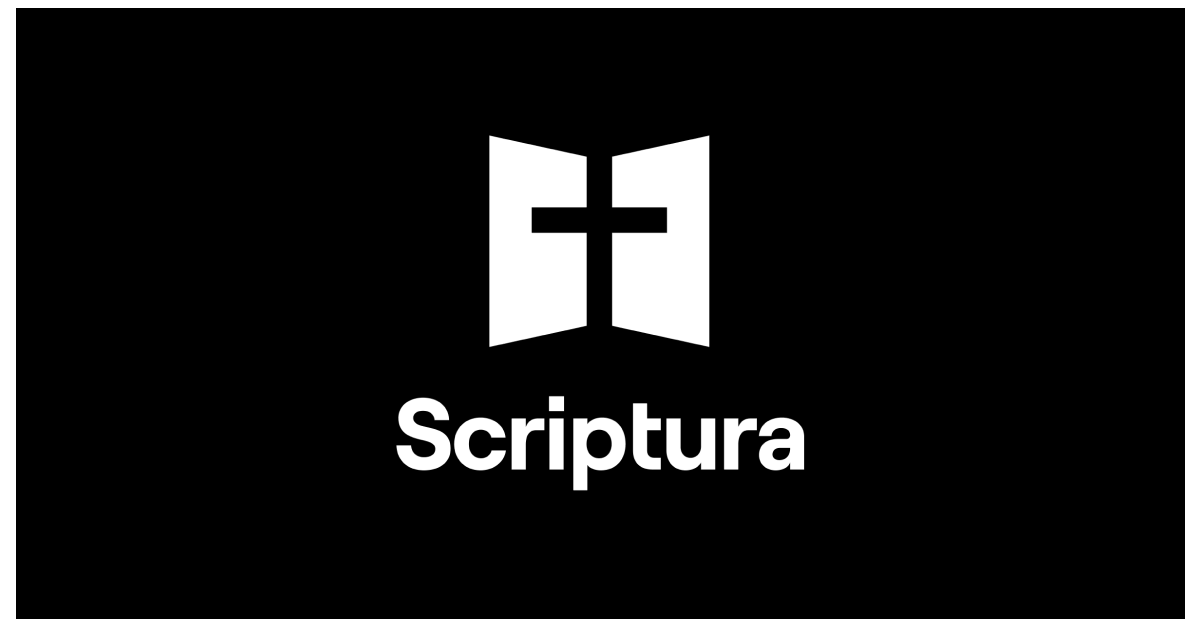
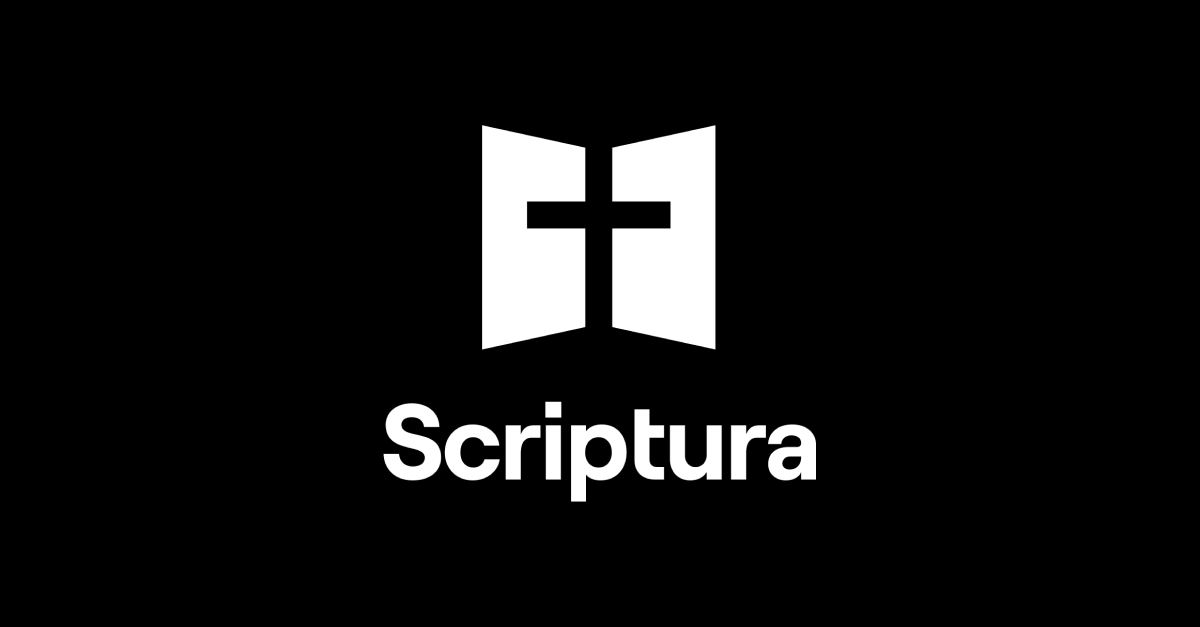
Meta Image Fix

diff --git a/src/pages/_app.js b/src/pages/_app.js
@@ -56,7 +56,7 @@ function MyApp({ Component, pageProps }) {
         <link rel="icon" href="/favicon.ico" />
 
         <meta property="og:type" content="website" key="ogwebsite" />
-        <meta property="og:image" content={url.current + '/og-image.png'} key="ogimage" />
+        <meta property="og:image" content="/og-image.png" key="ogimage" />
         <meta property="og:site_name" content="Scriptura" key="ogsitename" />
         <meta property="og:title" content="Scriptura" key="ogtitle" />
         <meta property="og:description" content="Bible Reading Experience" key="ogdesc" />
